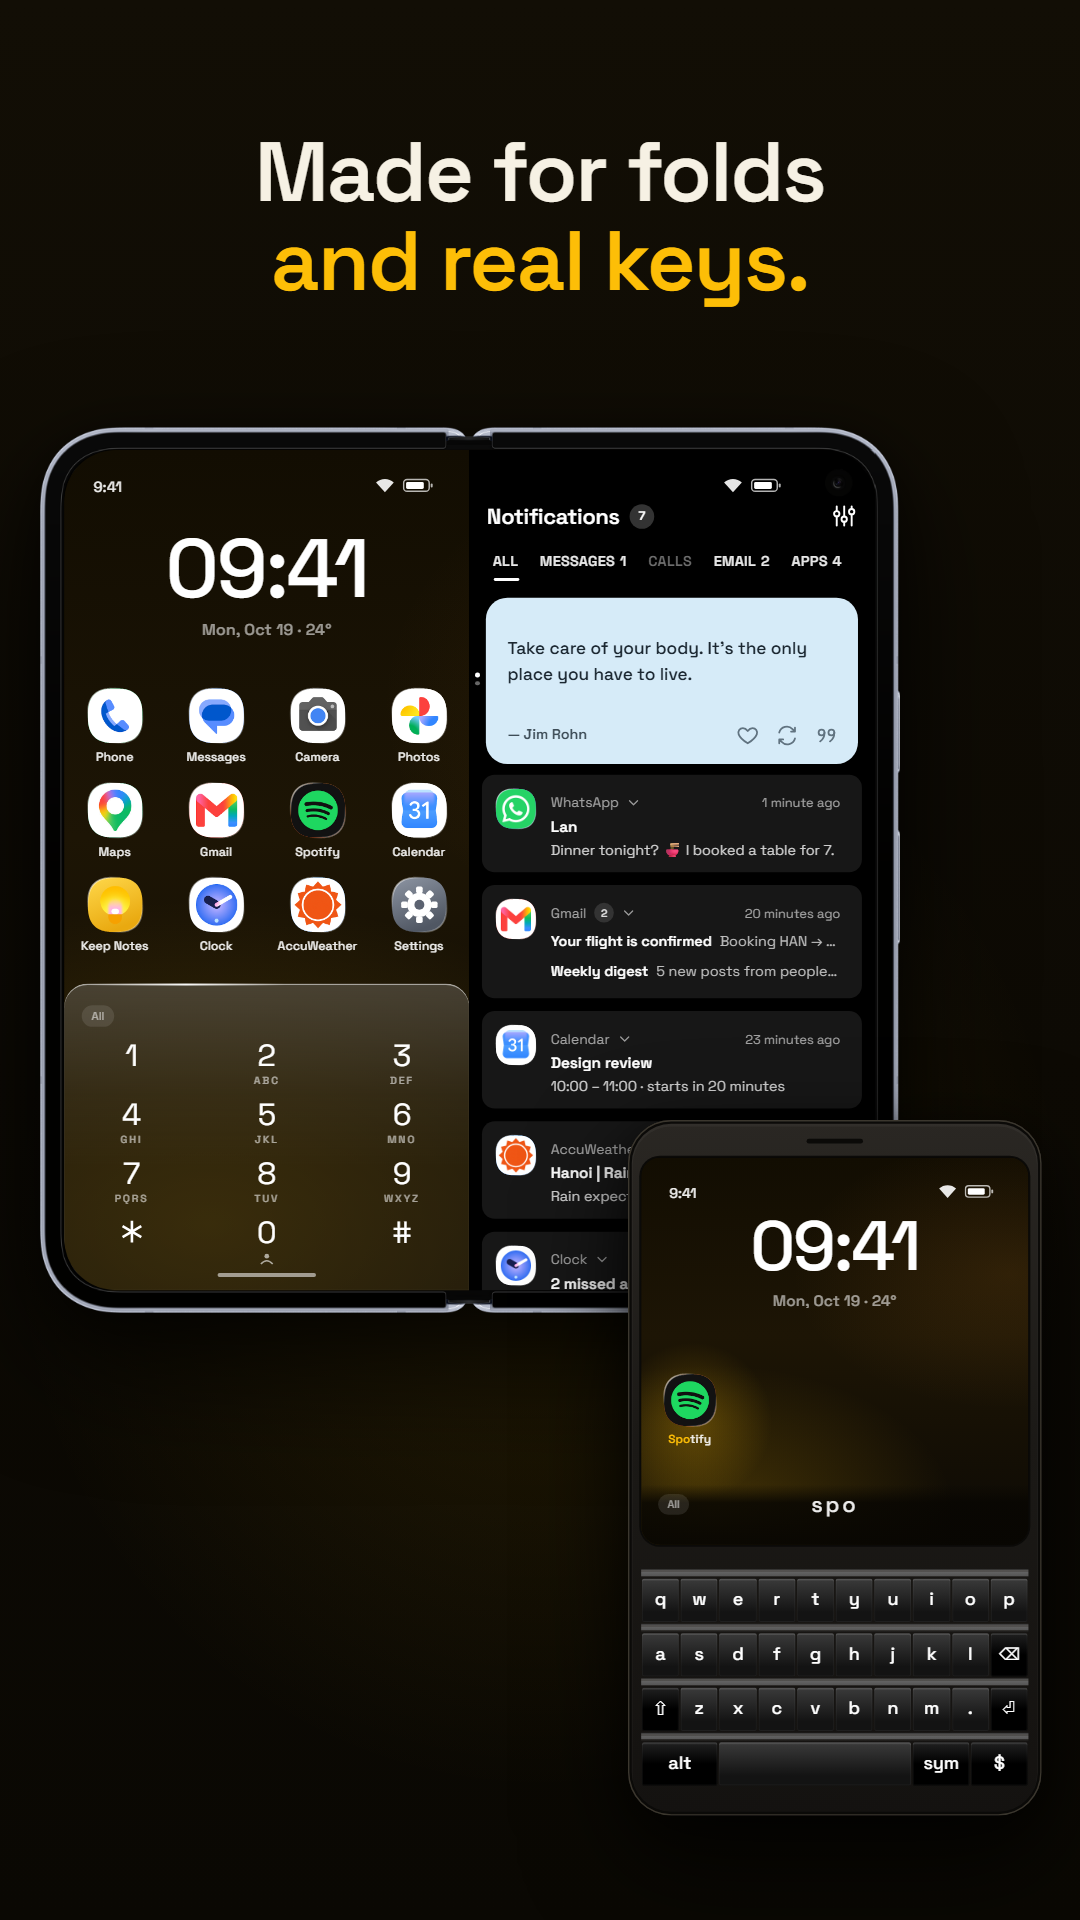
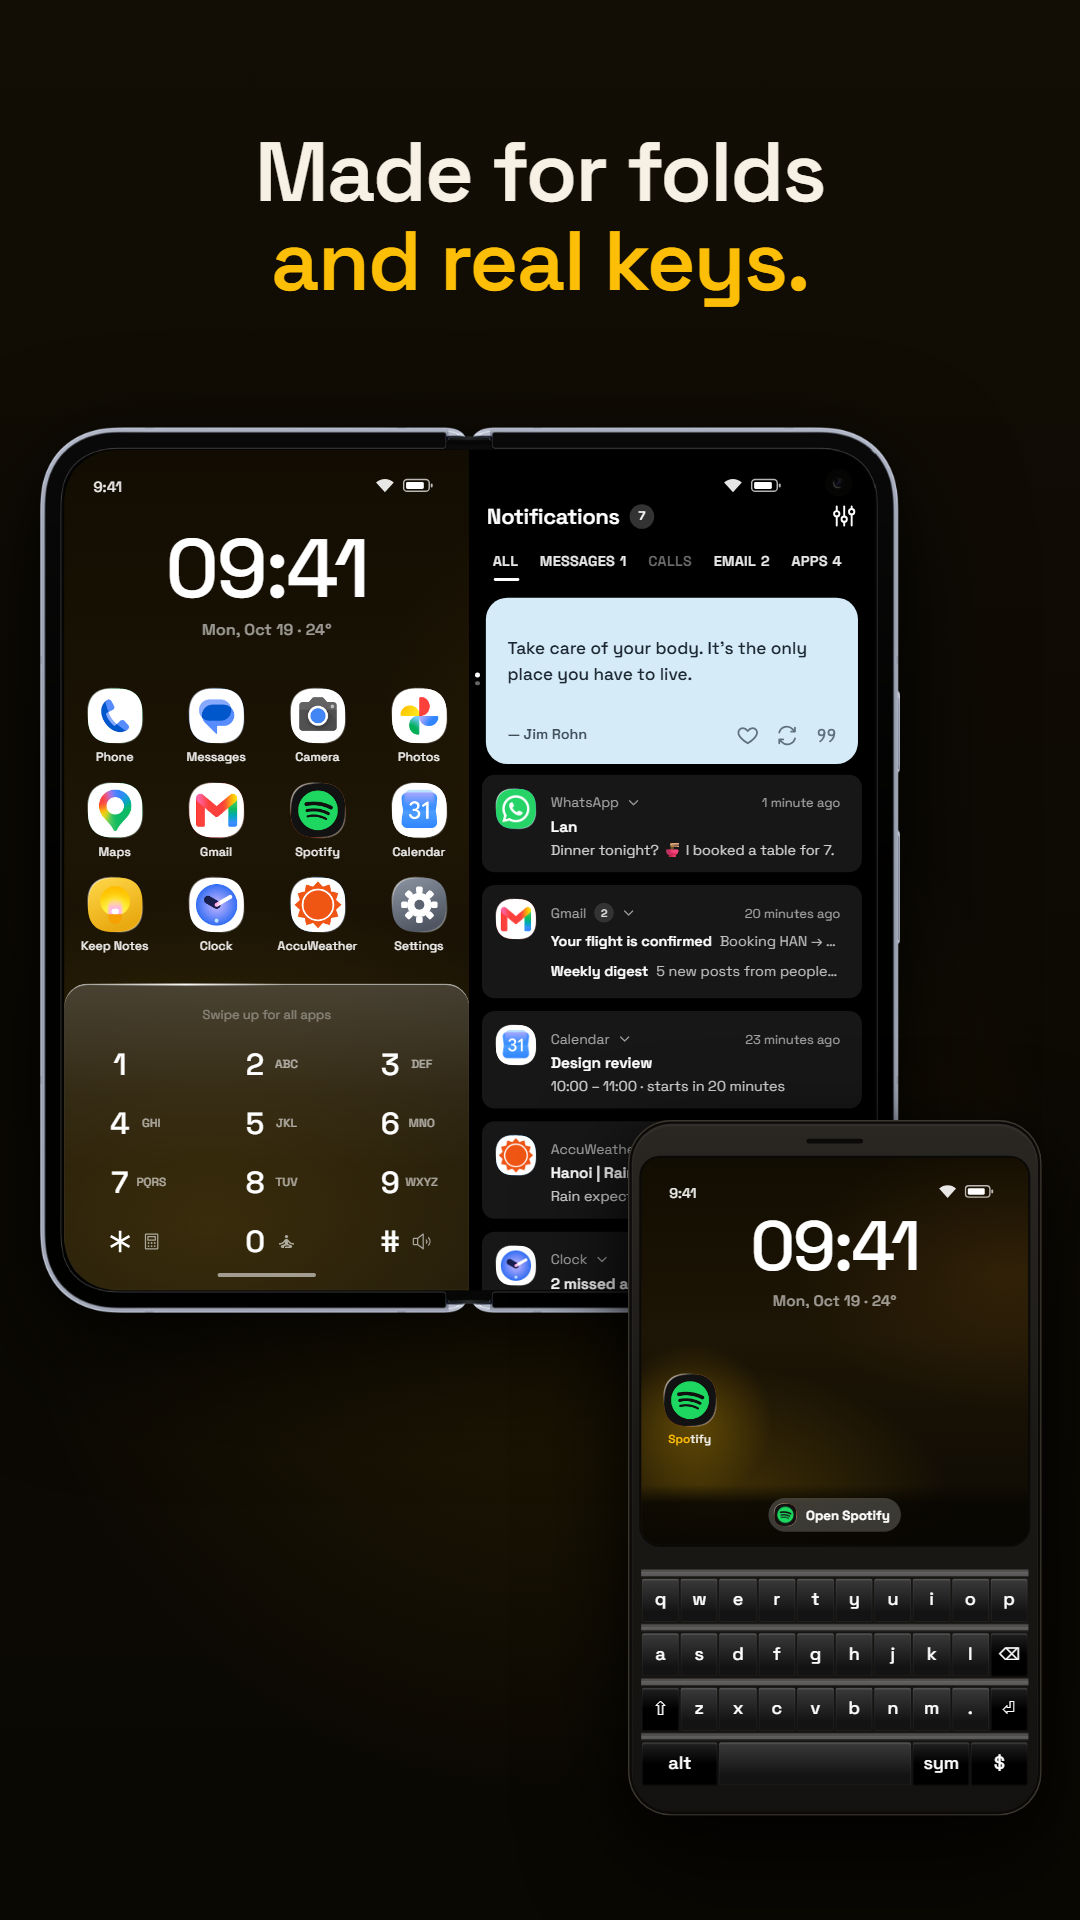
fix: use the eight 2.0 listing screenshots for features

diff --git a/config.js b/config.js
@@ -36,7 +36,7 @@ const KEY_LAUNCHER_CONTENT = {
         playStoreBadge: "assets/google_play_badge.png",
         apkDownloadUrl: "https://apkpure.com/key-launcher-%C2%B7-t9-productivity/com.loitran.minimalt9launcher.free/download",
         screenshot: "assets/screenshot_hero.png",
-        screenshots: ["assets/hero_1.webp","assets/screenshots/3_qwerty.png","assets/hero_2.webp","assets/hero_3.webp","assets/hero_4.webp","assets/hero_5.webp","assets/hero_6.webp","assets/hero_7.webp","assets/hero_8.webp"],
+        screenshots: ["assets/hero_1.webp","assets/hero_2.webp","assets/hero_3.webp","assets/hero_4.webp","assets/hero_5.webp","assets/hero_6.webp","assets/hero_7.webp","assets/hero_8.webp"],
         rating: {
             stars: 4.7,
             reviewsCount: "100+ reviews",
@@ -106,11 +106,11 @@ const KEY_LAUNCHER_CONTENT = {
         title: "Designed for Speed. Optimized for Focus.",
         subtitle: "Break your smartphone addiction. Simplify your daily workflow with our practical, distraction-free features.",
         items: [
-            { id: "search", title: "T9 & QWERTY Search", description: "Find your apps with a few digits or letters. Choose Standard, BlackBerry, QWERTZ or AZERTY.", image: "assets/screenshots/home-t9-keyboard.png", imageAlt: "T9 & QWERTY Search", badge: "" },
+            { id: "search", title: "T9 & QWERTY Search", description: "Find your apps with a few digits or letters. Choose Standard, BlackBerry, QWERTZ or AZERTY.", image: "assets/screenshots/1_t9.png", imageAlt: "T9 & QWERTY Search", badge: "" },
             { id: "swipe", title: "Swipe Typing", description: "Glide across T9 or QWERTY keys to search. Swipe Typing is in Beta and matching may vary by language.", image: "assets/screenshots/3_qwerty.png", imageAlt: "Swipe Typing", badge: "Beta" },
             { id: "vaults", title: "Multiple Private Vaults", description: "Keep apps, contacts and shortcuts in separate spaces, each with its own passcode. Additional vaults are a Pro feature.", image: "assets/screenshots/7_vault.png", imageAlt: "Multiple Private Vaults", badge: "New in 2.0" },
             { id: "appearance", title: "Glass & Personalization", description: "Make it yours with frosted Glass keys, Neon Glow, Ripple and 3D Home transitions. Try advanced effects in the Pro trial.", image: "assets/screenshots/4_glass.png", imageAlt: "Glass & Personalization", badge: "New in 2.0" },
-            { id: "widgets", title: "Widget Center & Stack", description: "Keep widgets in a dedicated panel, or swipe through a shared Stack on Home and in Notification Center.", image: "assets/screenshots/widget-center.png", imageAlt: "Widget Center & Stack", badge: "" },
+            { id: "widgets", title: "Widget Center & Stack", description: "Keep widgets in a dedicated panel, or swipe through a shared Stack on Home and in Notification Center.", image: "assets/screenshots/6_widgets.png", imageAlt: "Widget Center & Stack", badge: "" },
             { id: "shortcuts", title: "Super Shortcuts", description: "Assign apps, contacts and actions to memorable number or letter keys. Your everyday shortcuts, close at hand.", image: "assets/screenshots/5_shortcuts.png", imageAlt: "Super Shortcuts", badge: "" },
             { id: "focus", title: "Super Focus", description: "Turn your phone into a desk clock with Pomodoro, music controls and your calendar within reach.", image: "assets/screenshots/8_focus.png", imageAlt: "Super Focus", badge: "" },
             { id: "devices", title: "Foldables & Physical Keys", description: "Use different keyboards on inner and cover screens, split Home and panels, or search with a physical keyboard.", image: "assets/screenshots/2_devices.png", imageAlt: "Foldables & Physical Keys", badge: "" }
